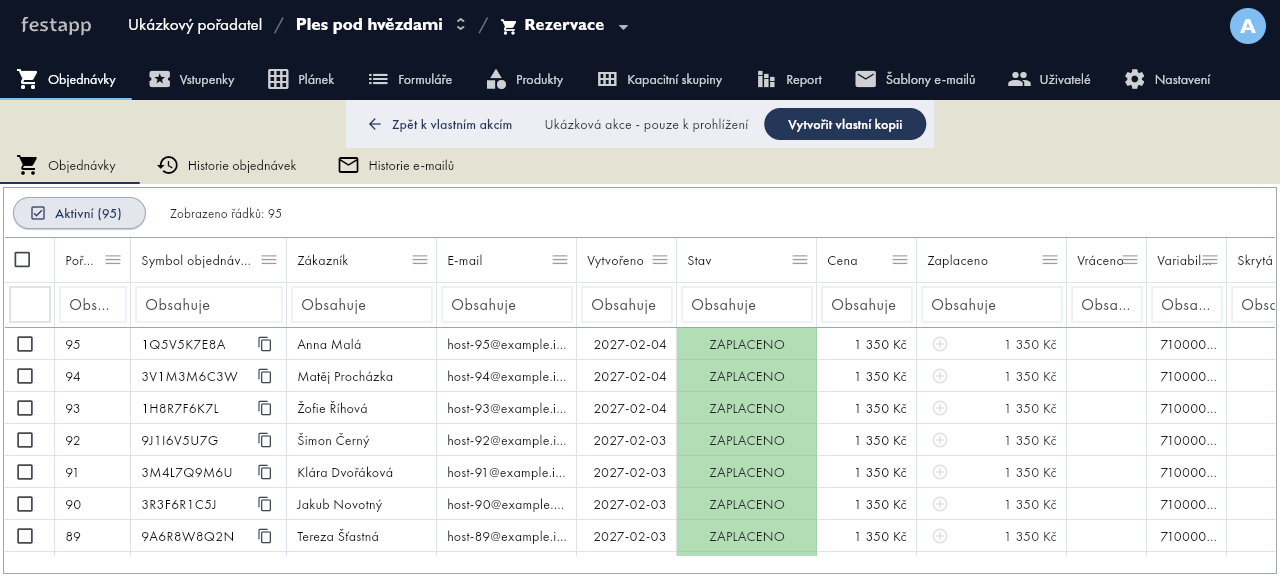
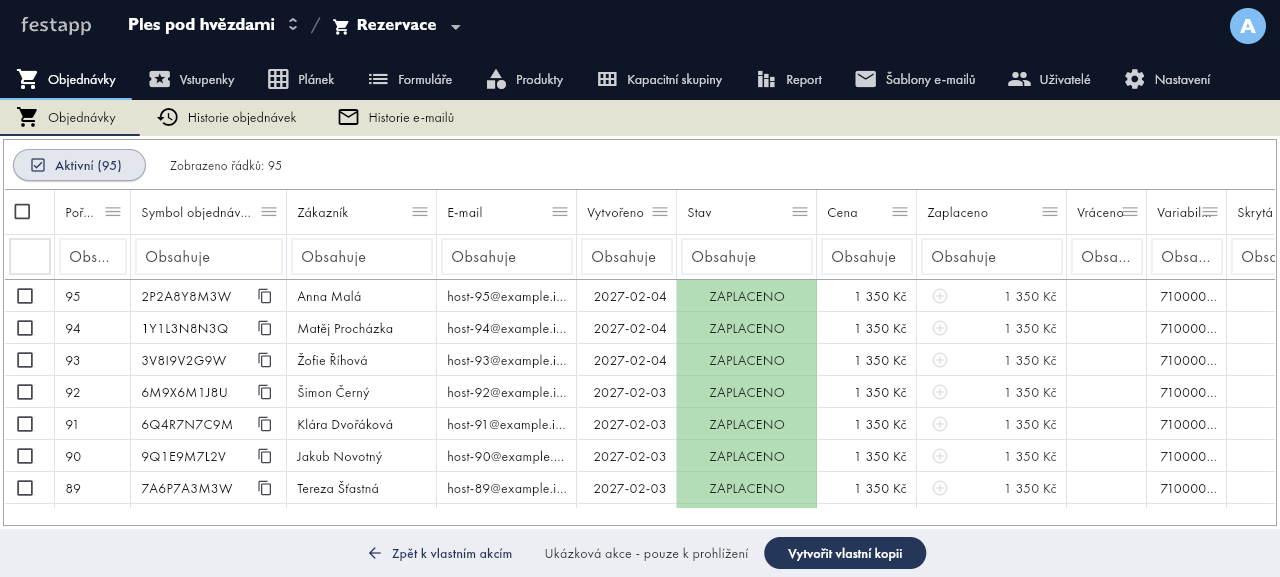
Open demos in the ordinary reservation UI and restore their originating list

Changed region(s): [[0.0, 0.156, 1.0, 0.9983], [0.0938, 0.0312, 0.4688, 0.0624], [0.9688, 0.4991, 1.0, 0.5615]]

diff --git a/lib/components/occasion/demo/demo_occasion_banner.dart b/lib/components/occasion/demo/demo_occasion_banner.dart
@@ -10,6 +10,7 @@ import 'package:fstapp/router_service.dart';
 import 'package:fstapp/services/toast_helper.dart';
 import 'package:fstapp/components/unit/unit_strings.dart';
 import 'package:uuid/uuid.dart';
+import 'demo_occasion_navigation.dart';
 
 class DemoOccasionBanner extends StatefulWidget {
   const DemoOccasionBanner({super.key});
@@ -62,7 +63,7 @@ class _DemoOccasionBannerState extends State<DemoOccasionBanner> {
       final copy = await DbOccasions.getOccasion(result.occasionId);
       if (!mounted) return;
       ToastHelper.Show(context, DemoOccasionStrings.copyHint);
-      await RouterService.navigate(context, '/${copy.link}/admin/settings');
+      await RouterService.navigate(context, '/${copy.link}/reservations/settings');
     } catch (_) {
       if (mounted) ToastHelper.Show(context, UnitStrings.createCopyFailed);
       // The same target and command survive a timeout; Retry replays its receipt.
@@ -75,16 +76,17 @@ class _DemoOccasionBannerState extends State<DemoOccasionBanner> {
   Widget build(BuildContext context) => Material(
       color: Theme.of(context).colorScheme.surfaceContainer,
       child: SafeArea(
-          bottom: false,
+          top: false,
           child: Padding(
               padding: const EdgeInsets.all(8),
               child: Wrap(
+                  alignment: WrapAlignment.center,
                   spacing: 16,
                   runSpacing: 8,
                   crossAxisAlignment: WrapCrossAlignment.center,
                   children: [
                     TextButton.icon(
-                        onPressed: () => RouterService.navigateHome(context),
+                        onPressed: () => DemoOccasionNavigation.back(context),
                         icon: const Icon(Icons.arrow_back),
                         label: Text(DemoOccasionStrings.back)),
                     Text(DemoOccasionStrings.readOnly),

diff --git a/lib/components/occasion/demo/demo_occasion_navigation.dart b/lib/components/occasion/demo/demo_occasion_navigation.dart
@@ -1,0 +1,41 @@
+import 'package:auto_route/auto_route.dart';
+import 'package:flutter/material.dart';
+import 'package:fstapp/data_services/rights_service.dart';
+import 'package:fstapp/router_service.dart';
+import 'package:fstapp/components/navigation/root_route_navigation.dart';
+
+/// Demo events use the ordinary reservation shell and retain their list origin.
+class DemoOccasionNavigation {
+  static const returnQuery = 'demoReturnTo';
+
+  static Future<void> open(BuildContext context, String link) =>
+      RouterService.navigateToOccasionReservationsByLink(context, link,
+          queryParameters: {
+            returnQuery: context.router.root.urlState.uri.toString(),
+          });
+
+  static String returnPath(String? origin, Iterable<int> ownUnits) {
+    final uri = origin == null ? null : Uri.tryParse(origin);
+    final unit = uri == null
+        ? null
+        : RegExp(r'^/unit/([0-9]+)/edit/occasions/?$').firstMatch(uri.path);
+    if (uri != null &&
+        !uri.hasScheme &&
+        !uri.hasAuthority &&
+        (uri.path == '/' ||
+            (unit != null && ownUnits.contains(int.parse(unit.group(1)!))))) {
+      return uri.toString();
+    }
+    return ownUnits.isEmpty ? '/' : '/unit/${ownUnits.first}/edit/occasions';
+  }
+
+  static Future<void> back(BuildContext context) async {
+    final path = returnPath(
+        context.router.root.urlState.uri.queryParameters[returnQuery],
+        (RightsService.currentUser()?.units ?? [])
+            .map((unit) => unit.id)
+            .whereType<int>());
+    await context.router.root
+        .navigate(rootRouteForPath(context.router.root, path));
+  }
+}

diff --git a/lib/components/_shared/app_panel_helper.dart b/lib/components/_shared/app_panel_helper.dart
@@ -60,7 +60,7 @@ class AppPanelHelper {
     List<Widget> breadcrumbItems = [];
 
     // Unit Selector
-    if (currentUnit != null) {
+    if (currentUnit != null && !RightsService.isDemoReadOnly) {
       breadcrumbItems.add(_buildBreadcrumbSegment<UnitModel>(
         context: context,
         title: currentUnit.title ?? '---',
@@ -100,8 +100,8 @@ class AppPanelHelper {
     if (currentUnit != null && currentOccasion != null && !isUnitLevelPage) {
       final onAppBarColor =
           Theme.of(context).appBarTheme.foregroundColor ?? Colors.white;
-      // Separator
-      breadcrumbItems.add(Padding(
+      // A shared demo has no organizer breadcrumb in the user's hierarchy.
+      if (breadcrumbItems.isNotEmpty) breadcrumbItems.add(Padding(
         padding: const EdgeInsets.symmetric(horizontal: 4.0),
         child: Text("/",
             style:
@@ -624,7 +624,7 @@ class AppPanelHelper {
 
           return Row(
             children: [
-              Flexible(
+              if (!RightsService.isDemoReadOnly) Flexible(
                 flex: 2,
                 child: (allUnits.length <= 1 &&
                         (RightsService.occasionLinkModel?.organization
@@ -695,7 +695,7 @@ class AppPanelHelper {
               ),
               if (currentOccasion != null) ...[
                 // Separator
-                Padding(
+                if (!RightsService.isDemoReadOnly) Padding(
                   padding: const EdgeInsets.symmetric(horizontal: 2.0),
                   child: Text("/",
                       style: TextStyle(fontSize: 16, color: separatorColor)),

diff --git a/lib/components/occasion/admin_page.dart b/lib/components/occasion/admin_page.dart
@@ -1,3 +1,4 @@
+import 'package:fstapp/components/navigation/root_route_navigation.dart';
 import 'package:fstapp/components/navigation/administration_loading_shell.dart';
 import 'package:fstapp/data_services/rights_service.dart';
 import 'package:auto_route/auto_route.dart';
@@ -19,9 +20,22 @@ class AdminPage extends StatelessWidget {
             const AdministrationLoadingShell(reservations: false),
         // AutoRouter defers its initial routes until the next frame. Keep
         // the same chrome during that frame too, after access has resolved.
-        builder: (_) => AutoRouter(
-            placeholder: (_) =>
-                const AdministrationLoadingShell(reservations: false)));
+        builder: (context) {
+          if (RightsService.isDemoReadOnly) {
+            WidgetsBinding.instance.addPostFrameCallback((_) {
+              if (!context.mounted) return;
+              final uri = context.router.root.urlState.uri;
+              final link = RightsService.currentOccasion()?.link;
+              if (link != null) {
+                replaceRootPath(context.router.root,
+                    uri.replace(path: '/$link/reservations').toString());
+              }
+            });
+            return const AdministrationLoadingShell(reservations: true);
+          }
+          return AutoRouter(placeholder: (_) =>
+              const AdministrationLoadingShell(reservations: false));
+        });
   }
 }
 

diff --git a/test/components/occasion/demo_occasion_navigation_test.dart b/test/components/occasion/demo_occasion_navigation_test.dart
@@ -1,0 +1,25 @@
+import 'package:flutter_test/flutter_test.dart';
+import 'package:fstapp/components/occasion/demo/demo_occasion_navigation.dart';
+
+void main() {
+  test('return restores the originating owned event list and its query', () {
+    expect(
+        DemoOccasionNavigation.returnPath(
+            '/unit/7/edit/occasions?search=ples', [3, 7]),
+        '/unit/7/edit/occasions?search=ples');
+    expect(DemoOccasionNavigation.returnPath('/', []), '/');
+  });
+  test('direct entries return to an owned list, never the demo organizer', () {
+    for (final origin in [
+      null,
+      '/demo-ball/admin',
+      '/unit/99/edit/occasions',
+      'https://example.test/unit/7/edit/occasions',
+      '//example.test/unit/7/edit/occasions'
+    ]) {
+      expect(DemoOccasionNavigation.returnPath(origin, [7]),
+          '/unit/7/edit/occasions');
+    }
+    expect(DemoOccasionNavigation.returnPath(null, []), '/');
+  });
+}

diff --git a/lib/components/navigation/routed_tab_scaffold.dart b/lib/components/navigation/routed_tab_scaffold.dart
@@ -86,13 +86,10 @@ class RoutedTabScaffold extends StatelessWidget {
             final scaffold = Scaffold(
                 appBar: AppPanelHelper.buildAdaptiveAdminAppBar(context,
                     activeTabs: tabs, tabController: controller),
-                body: SafeArea(
-                    top: false,
-                    child: Column(children: [
-                      if (RightsService.isDemoReadOnly)
-                        const DemoOccasionBanner(),
-                      Expanded(child: child),
-                    ])));
+                body: SafeArea(top: false, child: child),
+                bottomNavigationBar: RightsService.isDemoReadOnly
+                    ? const DemoOccasionBanner()
+                    : null);
             if (!reservations) return scaffold;
             return Column(children: [
               const SafeArea(bottom: false, child: RedStripWidget()),

diff --git a/lib/components/occasion/demo/demo_occasions_section.dart b/lib/components/occasion/demo/demo_occasions_section.dart
@@ -2,7 +2,7 @@ import 'package:flutter/material.dart';
 import 'package:fstapp/components/_shared/common_strings.dart';
 import 'package:fstapp/components/occasion/demo/demo_catalog.dart';
 import 'package:fstapp/components/occasion/demo/demo_occasion_strings.dart';
-import 'package:fstapp/router_service.dart';
+import 'demo_occasion_navigation.dart';
 
 /// Both entry points share metadata loading and the tenant-wide, unfiltered
 /// own-work state. Search and the selected Unit never decide onboarding state.
@@ -42,7 +42,7 @@ class _DemoOccasionsSectionState extends State<DemoOccasionsSection> {
     if (widget.onOpen != null) {
       await widget.onOpen!(item);
     } else {
-      await RouterService.navigateToOccasionByLink(context, item.link);
+      await DemoOccasionNavigation.open(context, item.link);
     }
     if (mounted) await _load();
   }

diff --git a/lib/router_service.dart b/lib/router_service.dart
@@ -285,8 +285,11 @@ class RouterService {
 
   /// The routed reservation boundary owns its context load and access check.
   static Future<void> navigateToOccasionReservationsByLink(
-      BuildContext context, String link) async {
-    await RouterService.navigate(context, "/$link/${ReservationsPage.ROUTE}");
+      BuildContext context, String link,
+      {Map<String, String>? queryParameters}) async {
+    await RouterService.navigate(context, Uri(
+        path: "/$link/${ReservationsPage.ROUTE}",
+        queryParameters: queryParameters).toString());
   }
 
   /// Preserve the nearest administration ancestor when changing occasions.

diff --git a/docs/plans/demo-occasions-evidence-2026-10-14/README.md b/docs/plans/demo-occasions-evidence-2026-10-14/README.md
@@ -24,3 +24,9 @@ Screenshots and PDFs are adjacent to this document. `catalog-desktop.png` was ca
 ## Reproduction and activation
 
 Generate the migration with `python3 automation/assemble-demo-occasions-migration.py`. It contains exact canonical SQL sources, including removal of the two superseded read helpers without CASCADE. Apply the migration and ledger atomically through the protected canonical backend workflow. Seed only the explicitly selected tenant with `automation/seed_demo_occasions.sql` and `demo_organization=3`. This maintenance entrypoint does not invoke production checkout, Auth invitations, bank ingest or email producers. It creates an unlisted version and is idempotent for that tenant/version. After verified backend, Edge and client release, run `automation/activate_demo_occasions.sql` for organization 3. Withdrawal changes `is_listed` only; retired versions remain protected.
+
+## Navigation correction after live review
+
+Demo cards now enter the same existing reservation shell as an ordinary ball. All three keep its established tabs; no demo administration tab list is composed. Ball has Tickets and Blueprint, concert has Tickets without Blueprint, weekend has Applications without either. Legacy demo `/admin` entries normalize to this shell. The synthetic storage Unit is omitted from desktop and mobile breadcrumbs. The demo notice, return and copy actions occupy the bottom navigation area, centered, without covering the content. The card appearance remains as reviewed.
+
+The originating owned occasion list is retained in `demoReturnTo`; return restores that list, including after physical reload. Direct entries fall back to an owned Unit, never the demo's storage Unit. Local headless checks compared ordinary and demo ball tabs, checked concert/weekend differences, legacy-entry normalization, desktop/mobile footer and both return paths. Three focused navigation tests passed and targeted Dart analysis found no errors.
